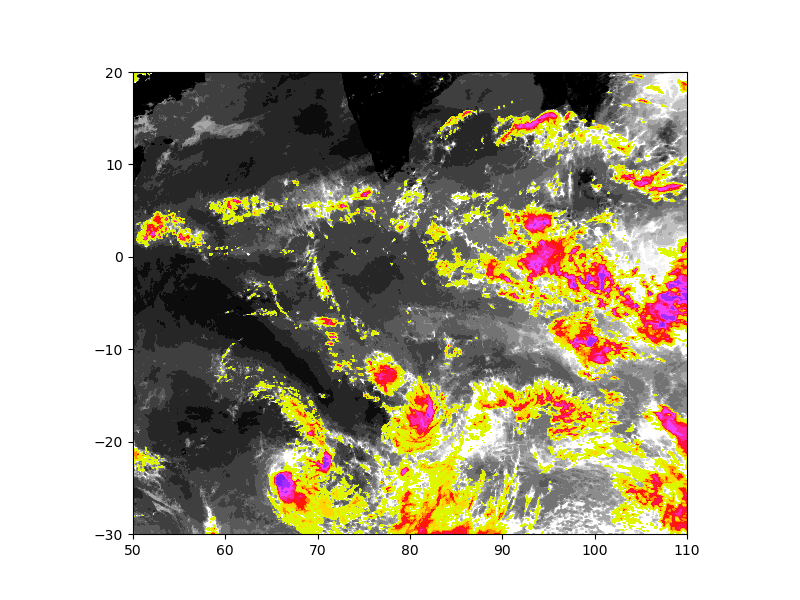
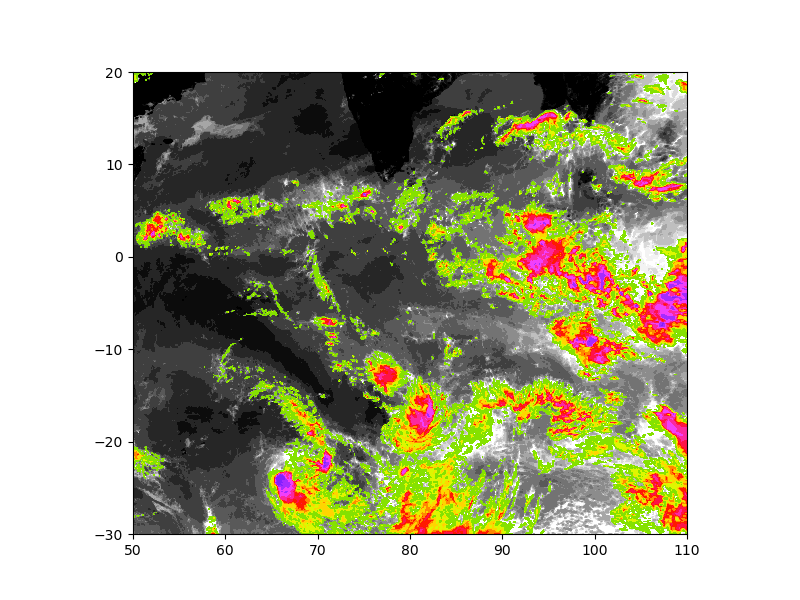
trying out colorbar

diff --git a/examine_satellite_data/plot_seviri_windowbt.py b/examine_satellite_data/plot_seviri_windowbt.py
@@ -43,7 +43,7 @@ def plot_windowbt( lon2d, lat2d, bt2d, ax ):
 
   # Plot out cld BTs
   cld_bts = bt2d*1.
-  cld_bts[ bt2d > 264 ] = np.nan
+  cld_bts[ bt2d > 272 ] = np.nan
   cnf_cld = ax.contourf( lon2d, lat2d, cld_bts, np.linspace(200,280,11),
                          cmap = cloud_cmap, extend='min')
 
